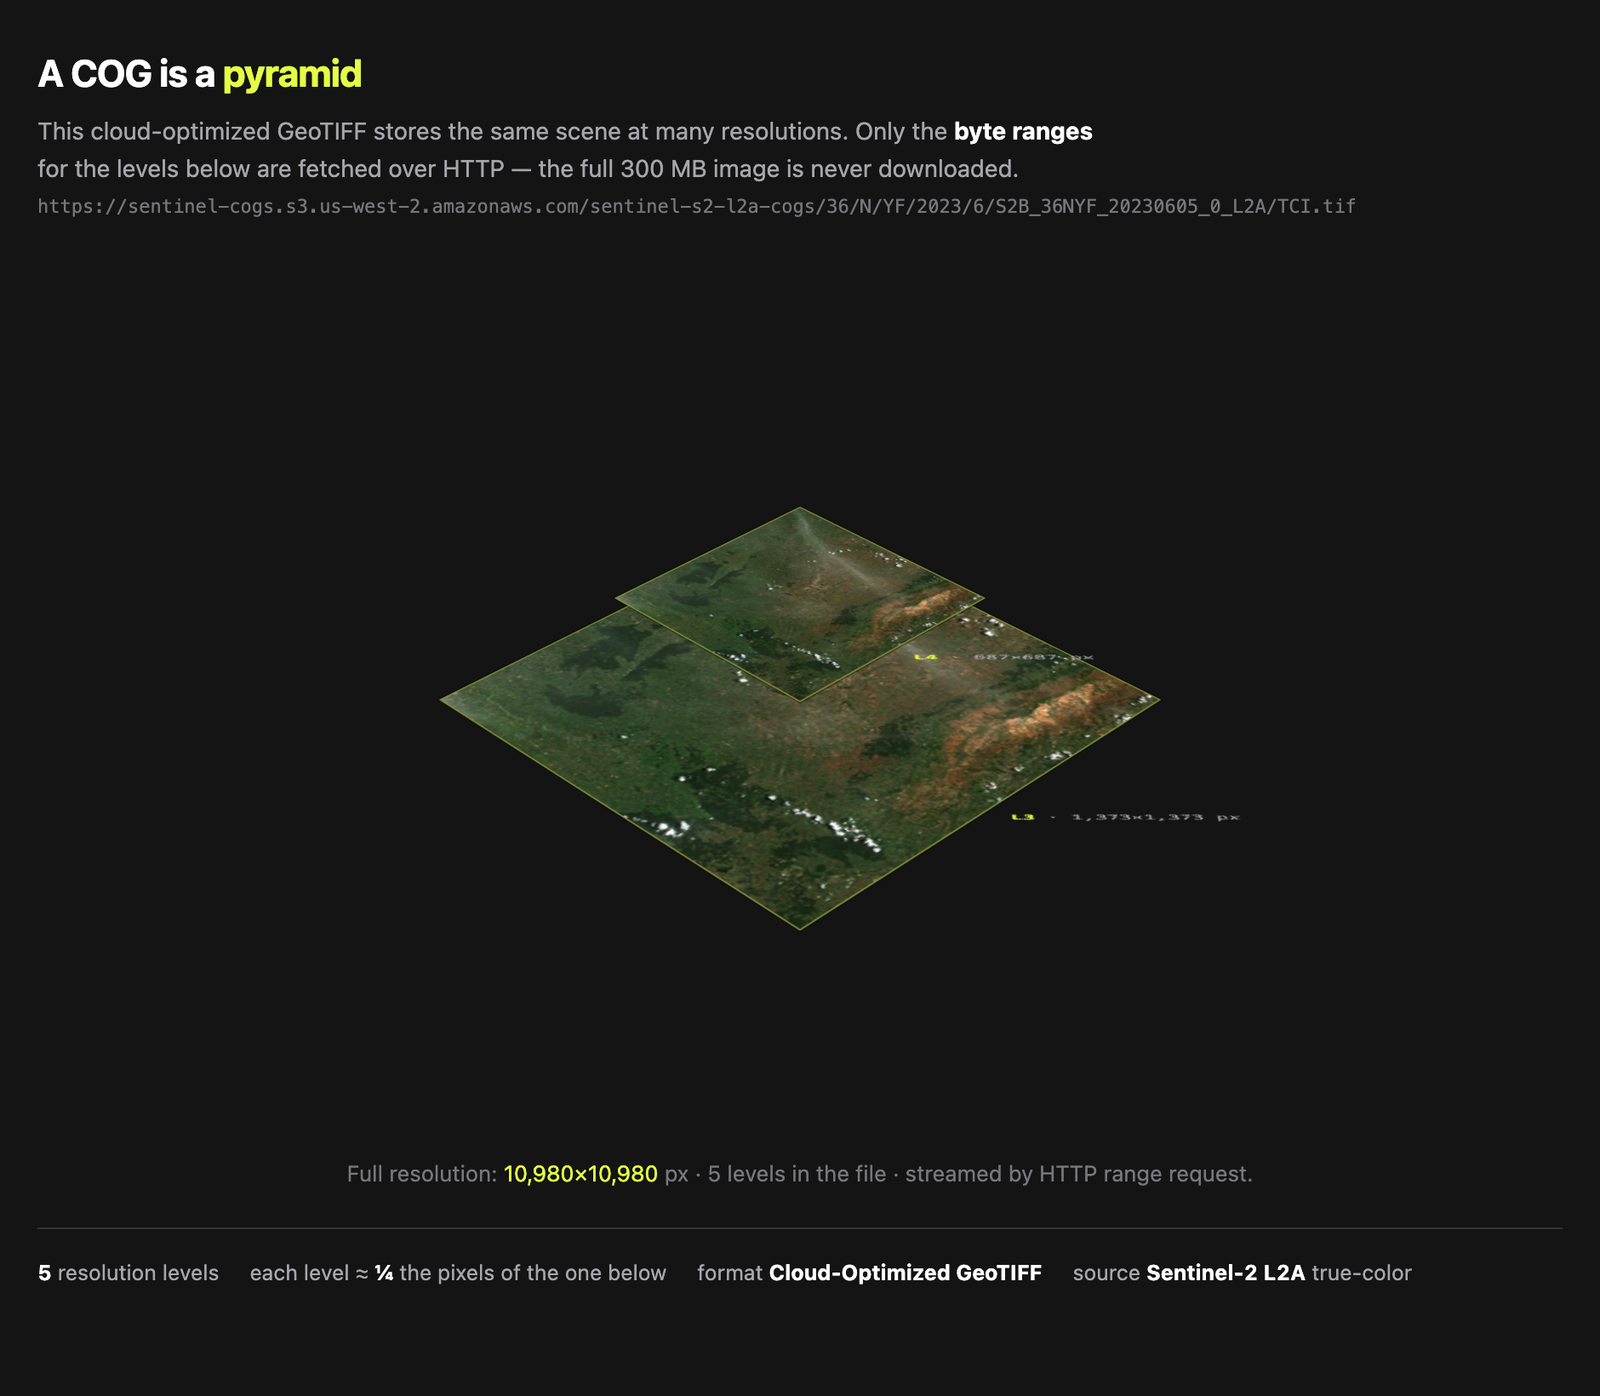
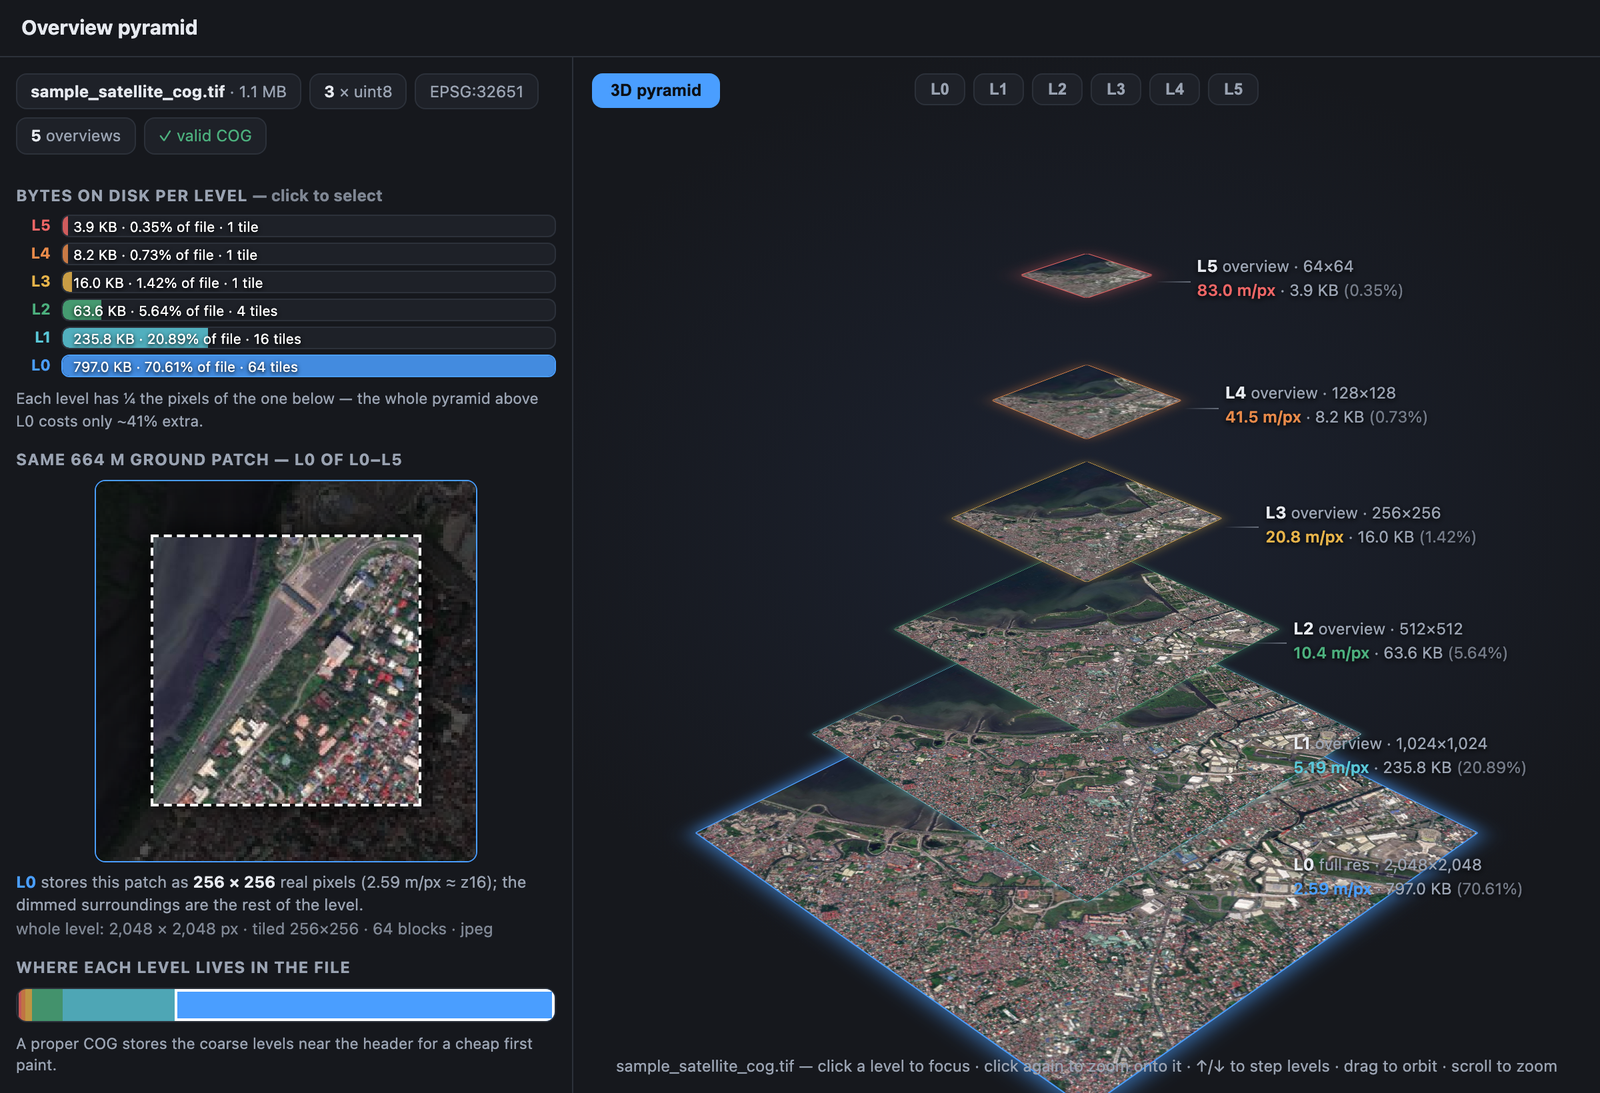
learn: point Deploy example at the real deployed COG Overview Pyramid
Isaac's fused-render-examples changes (literal runPython paths, hosted
read-only mode, bundle-v2 asset globs) make the cog_overview_pyramid example
deployable. Deployed it (open.fused.io/5p5yp52aolmwqks63j7l4e7x3u) — hosted it
runs read-only on the bundled Maxar Manila optical COG — and swapped it in as
the Deploy example (screenshot + URL) in place of the from-scratch recreation.

diff --git a/learn/index.html b/learn/index.html
@@ -560,16 +560,16 @@
       <div class="lab">[ GIF: deploying a project → shareable open.fused.io URL ]</div></div>
 
     <h2><span class="n">3</span>See a live one</h2>
-    <p class="sub">The <b>COG pyramid</b> viewer — it opens a cloud-optimized GeoTIFF and stacks its resolution levels into a 3D pyramid, streaming only the byte ranges it needs (the full image is never downloaded). Here it is on a Sentinel-2 optical scene:</p>
-    <a class="browser" href="https://open.fused.io/h4n7ha7vvz4r3yea6jyvrw57wm" target="_blank" rel="noopener">
+    <p class="sub">The <b>COG Overview Pyramid</b> example, deployed — it opens a cloud-optimized GeoTIFF and stacks every resolution level into an interactive 3D pyramid, with each level's pixel size and byte cost. Open it in your browser, no install:</p>
+    <a class="browser" href="https://open.fused.io/5p5yp52aolmwqks63j7l4e7x3u" target="_blank" rel="noopener">
       <div class="bar">
         <div class="dots"><i style="background:#ff5f56"></i><i style="background:#ffbd2e"></i><i style="background:#27c93f"></i></div>
-        <div class="url">open.fused.io/h4n7ha7vvz4r3yea6jyvrw57wm</div>
+        <div class="url">open.fused.io/5p5yp52aolmwqks63j7l4e7x3u</div>
         <span class="go">open ↗</span>
       </div>
-      <img data-shot="assets/shot_cog_pyramid.png" alt="Deployed COG pyramid viewer running in the browser">
+      <img data-shot="assets/shot_cog_pyramid.png" alt="Deployed COG Overview Pyramid running in the browser, on a Maxar optical scene">
     </a>
-    <p class="sub" style="font-size:12px;color:var(--mut)">A self-contained page (no backend) — it streams the COG straight from cloud storage, so it runs anywhere.</p>
+    <p class="sub" style="font-size:12px;color:var(--mut)">Deployed straight from the <a href="https://github.com/fusedio/fused-render-examples/tree/main/geospatial/cog_overview_pyramid" target="_blank" rel="noopener">cog_overview_pyramid</a> example — hosted it runs in a read-only mode on a bundled sample COG (a Maxar optical scene of Manila).</p>
   </section>
 
   <!-- ============================ 6 · SHOWCASE ============================ -->